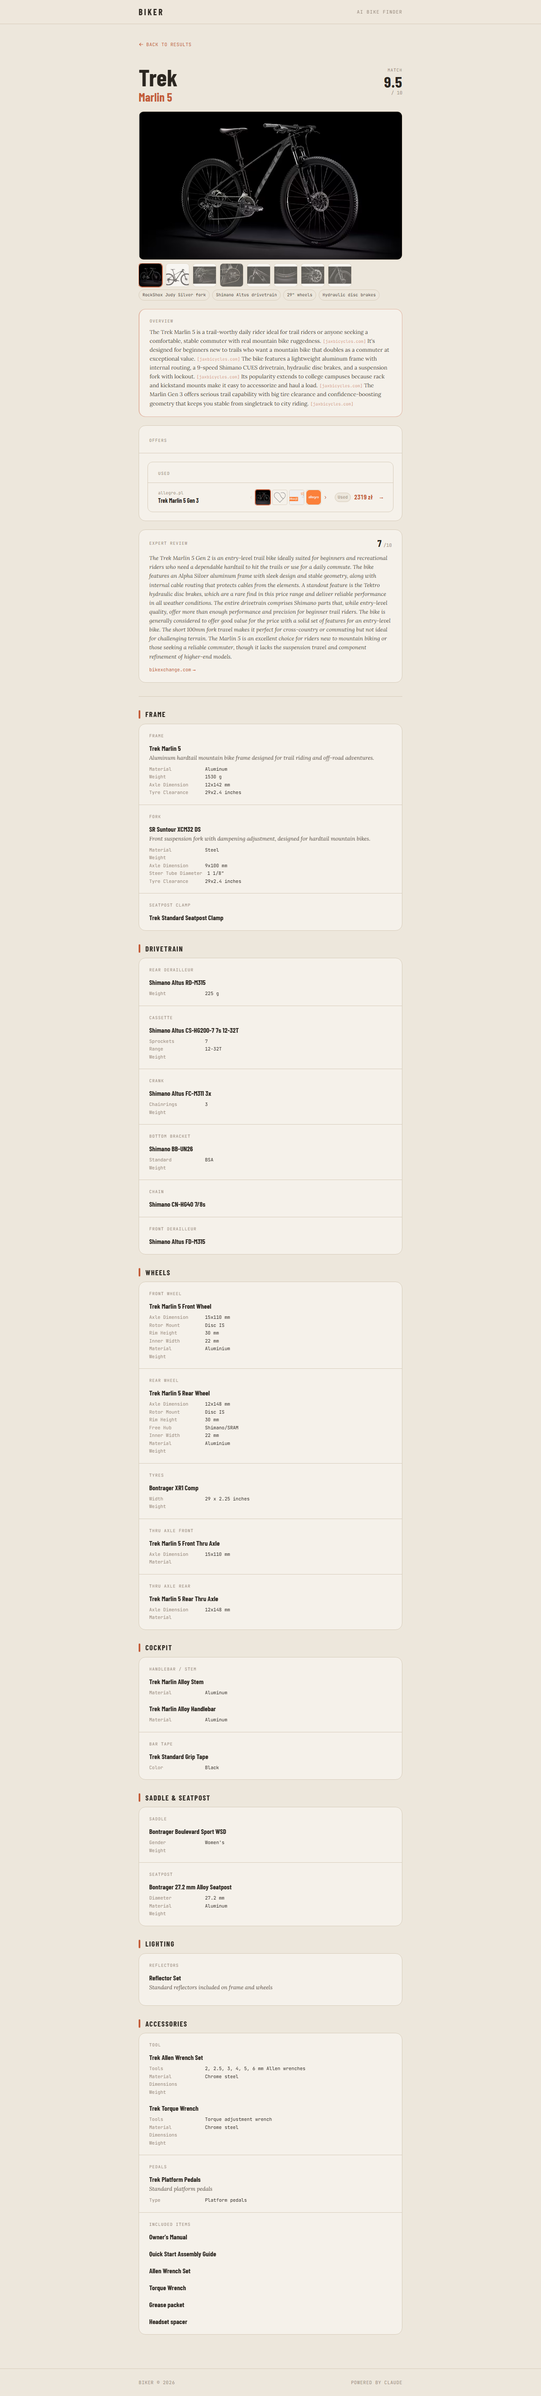
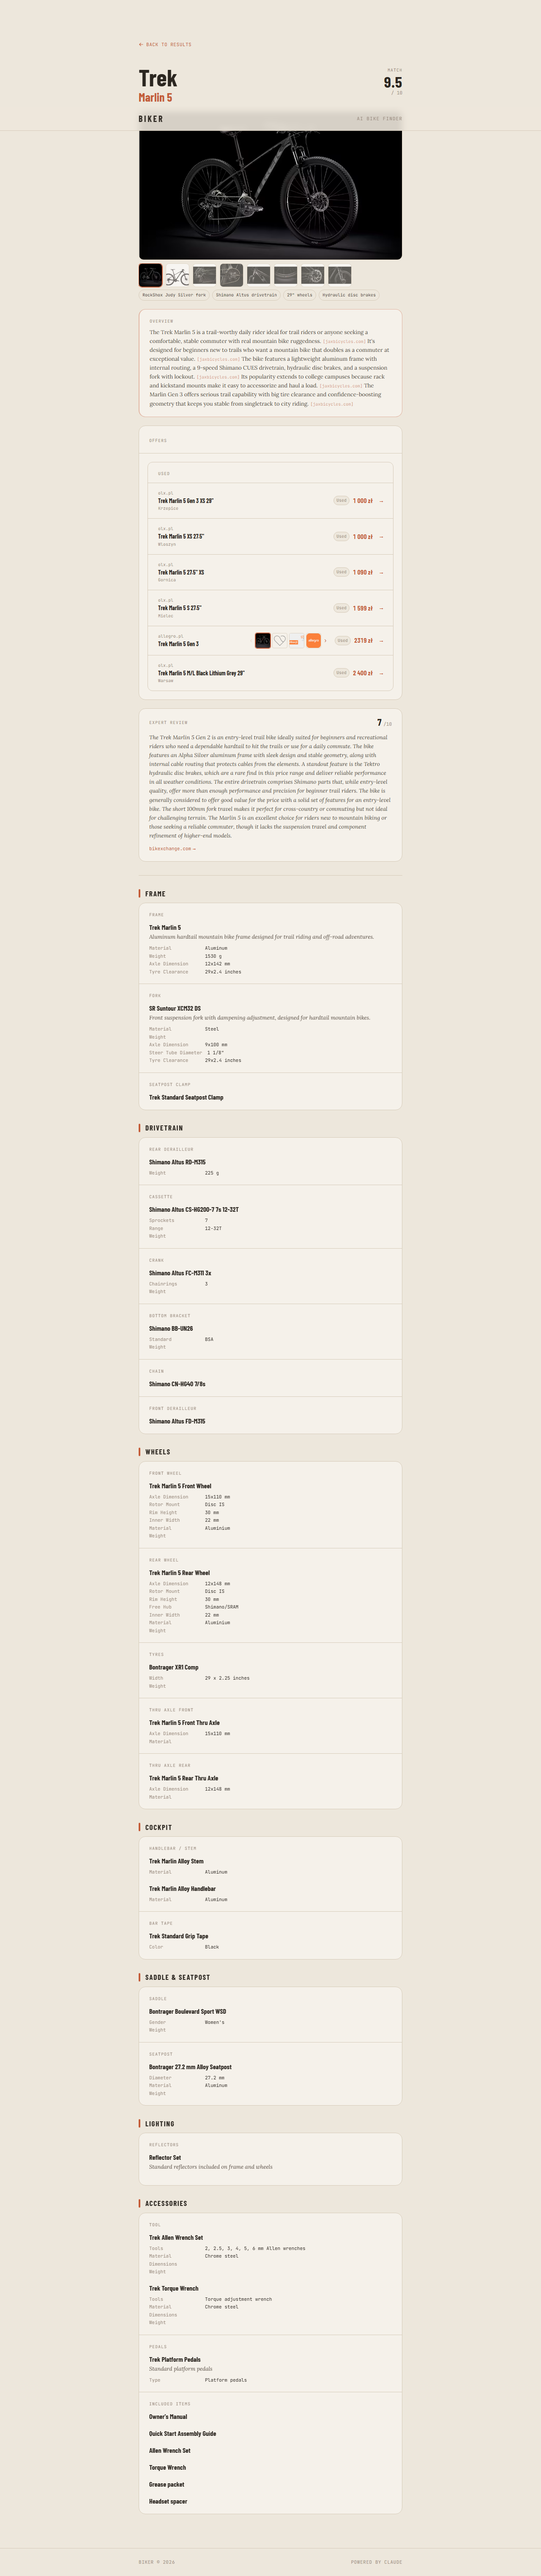
Update offer screenshots: 6 merged offers (allegro+olx) sorted cheapest-first

Changed region(s): [[0.25, 0.0, 0.75, 0.9949], [0.375, 0.8705, 0.4375, 0.9016]]

diff --git a/backend/scripts/shot_offers.py b/backend/scripts/shot_offers.py
@@ -68,6 +68,14 @@ async def shoot():
         else:
             print("Offers still loading after 200s — capturing current state.")
         await page.wait_for_timeout(800)
+
+        # Report how many offer rows rendered, split by badge.
+        rows = card.locator("a[target='_blank']")
+        n = await rows.count()
+        used_n = await card.get_by_text("Used", exact=True).count()
+        new_n = await card.get_by_text("New", exact=True).count()
+        print(f"offer rows rendered = {n} (Used badges={used_n}, New badges={new_n})")
+
         await offers_label.scroll_into_view_if_needed()
         try:
             await card.screenshot(path="scripts/ss_1_offers_merged.png")
